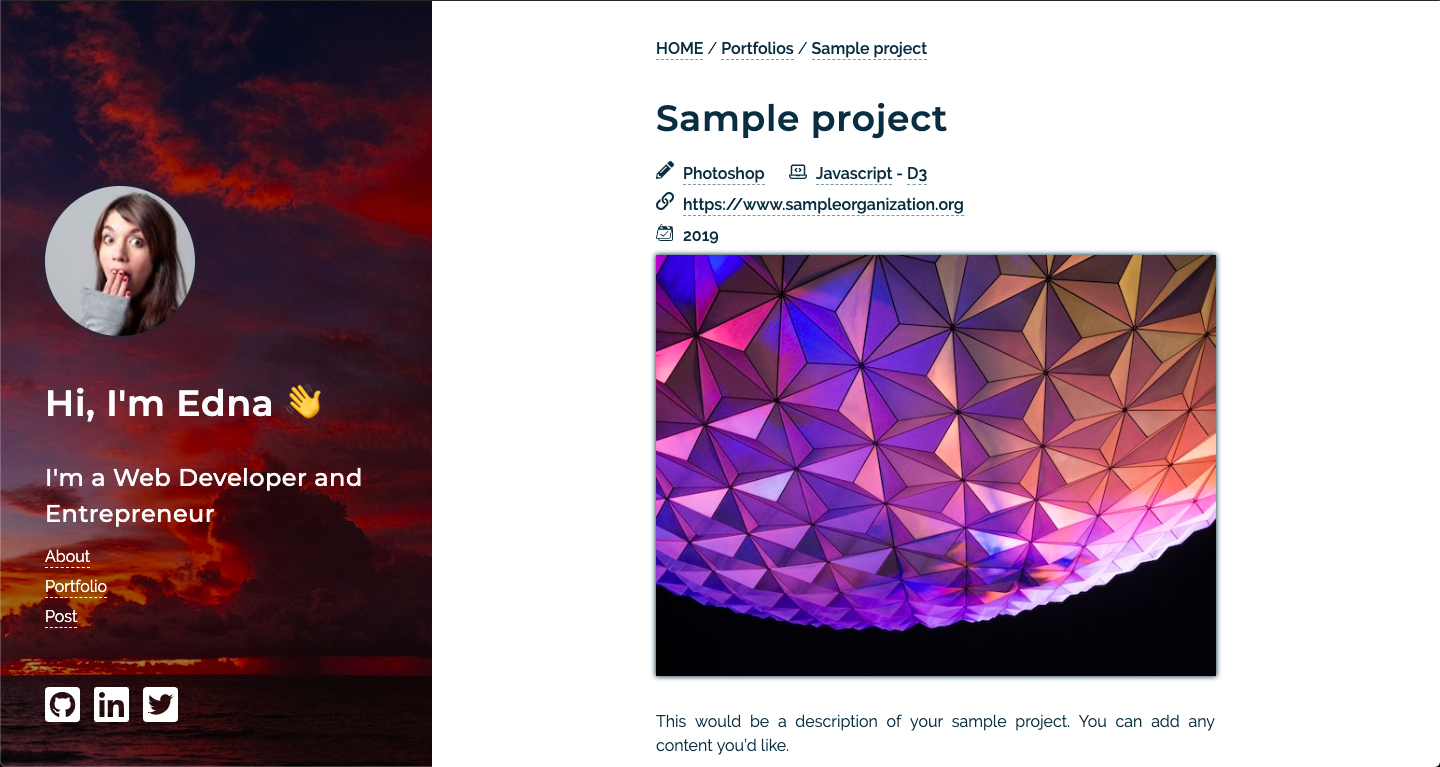
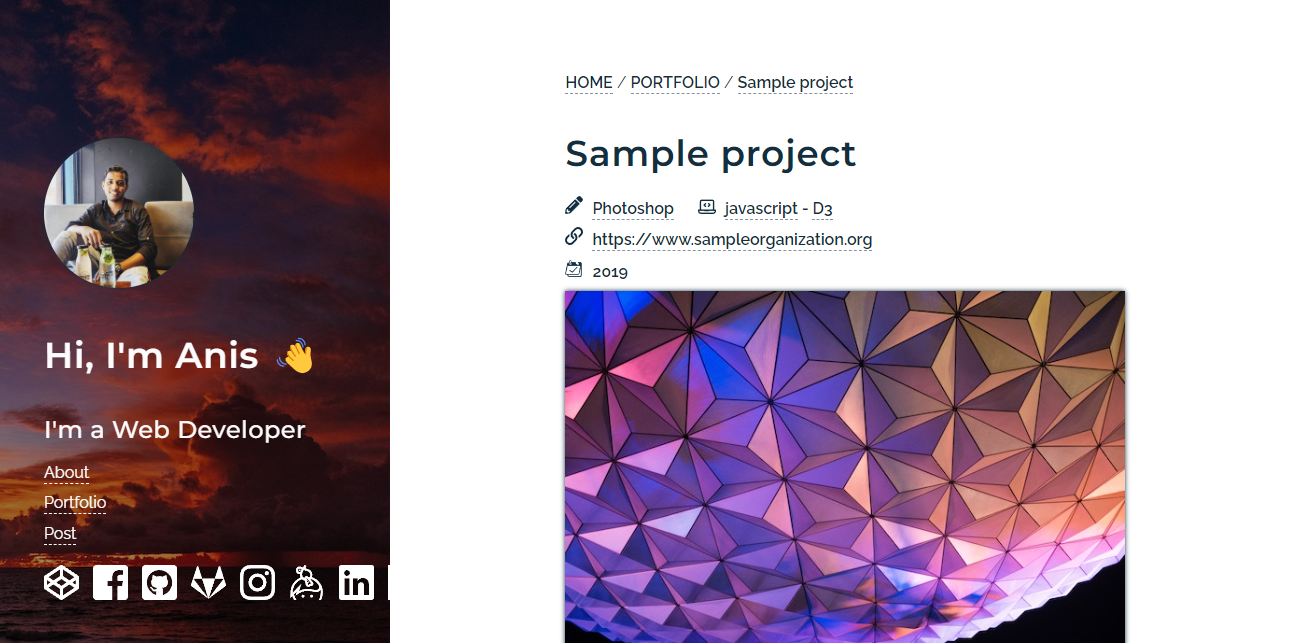
update1

diff --git a/layouts/partials/sidebar/sidebar.html b/layouts/partials/sidebar/sidebar.html
@@ -2,7 +2,7 @@
   <div class="intro">
     <div class="logo-container">
       <a href="/">
-        <img src='{{ .Site.Params.sidebar.logo | default "images/edna-west.jpg" | absURL }}' alt="Profile {{ .Title }}" class="rounded-logo">
+        <img src='{{ .Site.Params.sidebar.logo | default "images/Anis.jpg" | absURL }}' alt="Profile {{ .Title }}" class="rounded-logo">
       </a>
     </div>
     <h2>{{ .Site.Params.intro.main | default "Welcome, I'm John Doe" | emojify }}</h2>
@@ -37,9 +37,9 @@
 <div class="overlay-menu">
   <header>
     <div class="intro">
-      <div class="logo-container">
+      <!-- <div class="logo-container">
         <a href="/">
-          <img src='{{ .Site.Params.sidebar.logo | default "images/edna-west.jpg" | absURL }}' alt="Profile {{ .Title }}" class="rounded-logo">
+          <img src='{{ .Site.Params.sidebar.logo | default "images/Anis.jpg" | absURL }}' alt="Profile {{ .Title }}" class="rounded-logo">
         </a>
       </div>
       <h2>{{ .Site.Params.intro.main | default "Welcome, I'm John Doe" | emojify }}</h2>
@@ -54,7 +54,7 @@
               </a>
           </p>
         {{ end }}
-      </div>
+      </div> -->
     </div>
 
     <div class="socials">
